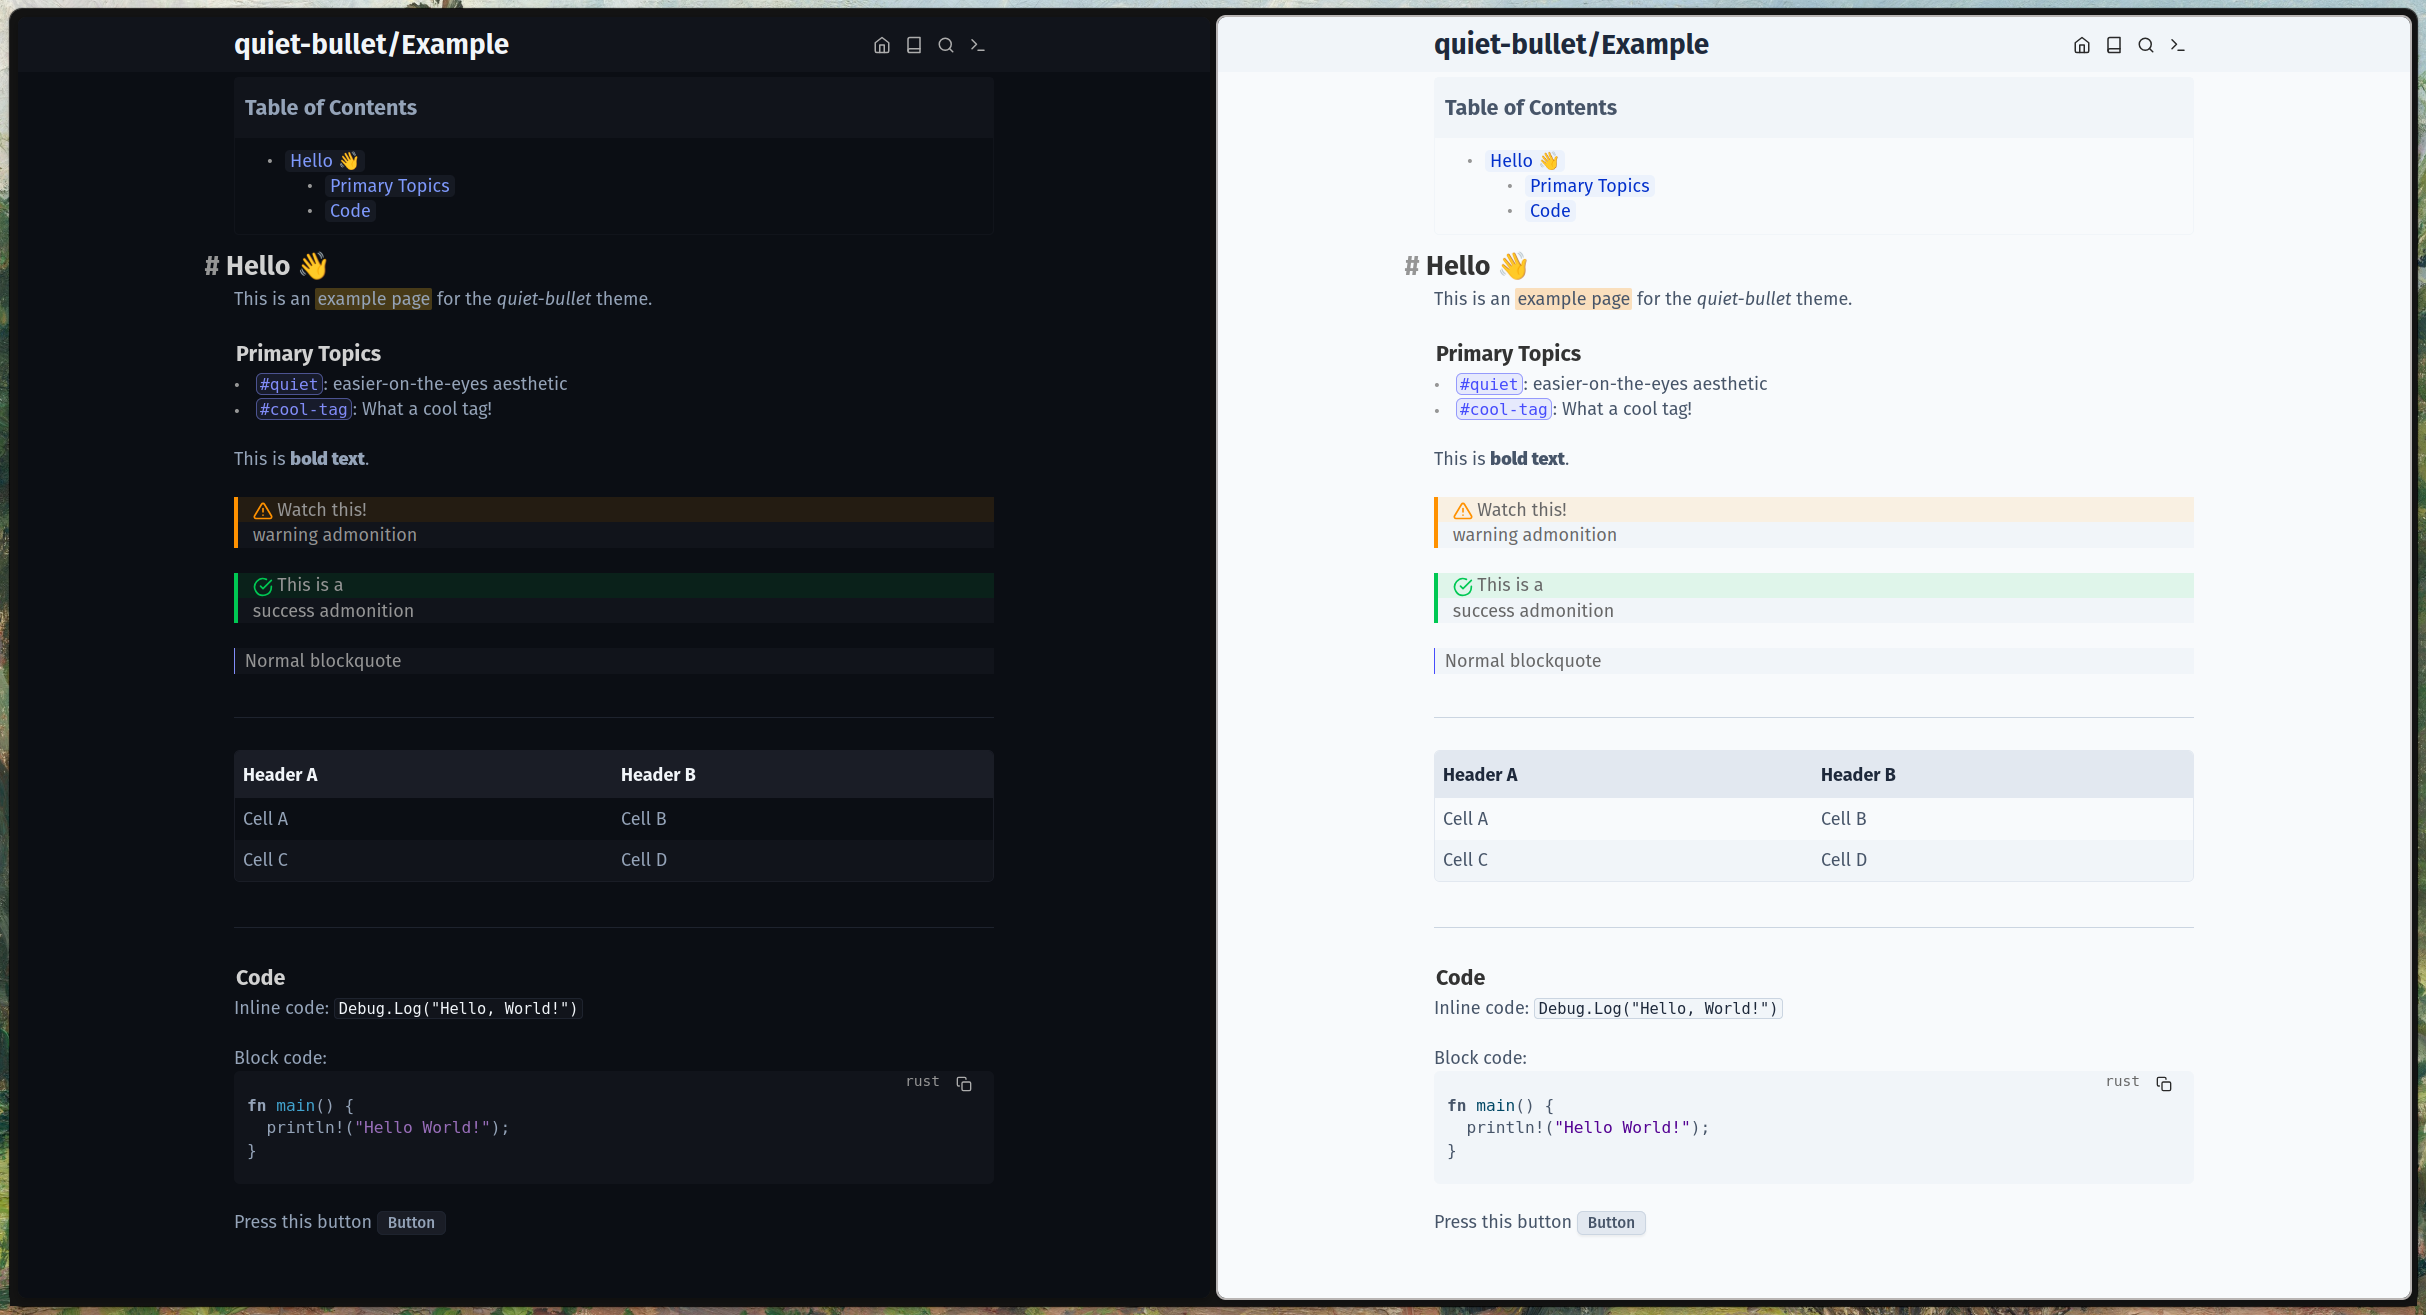
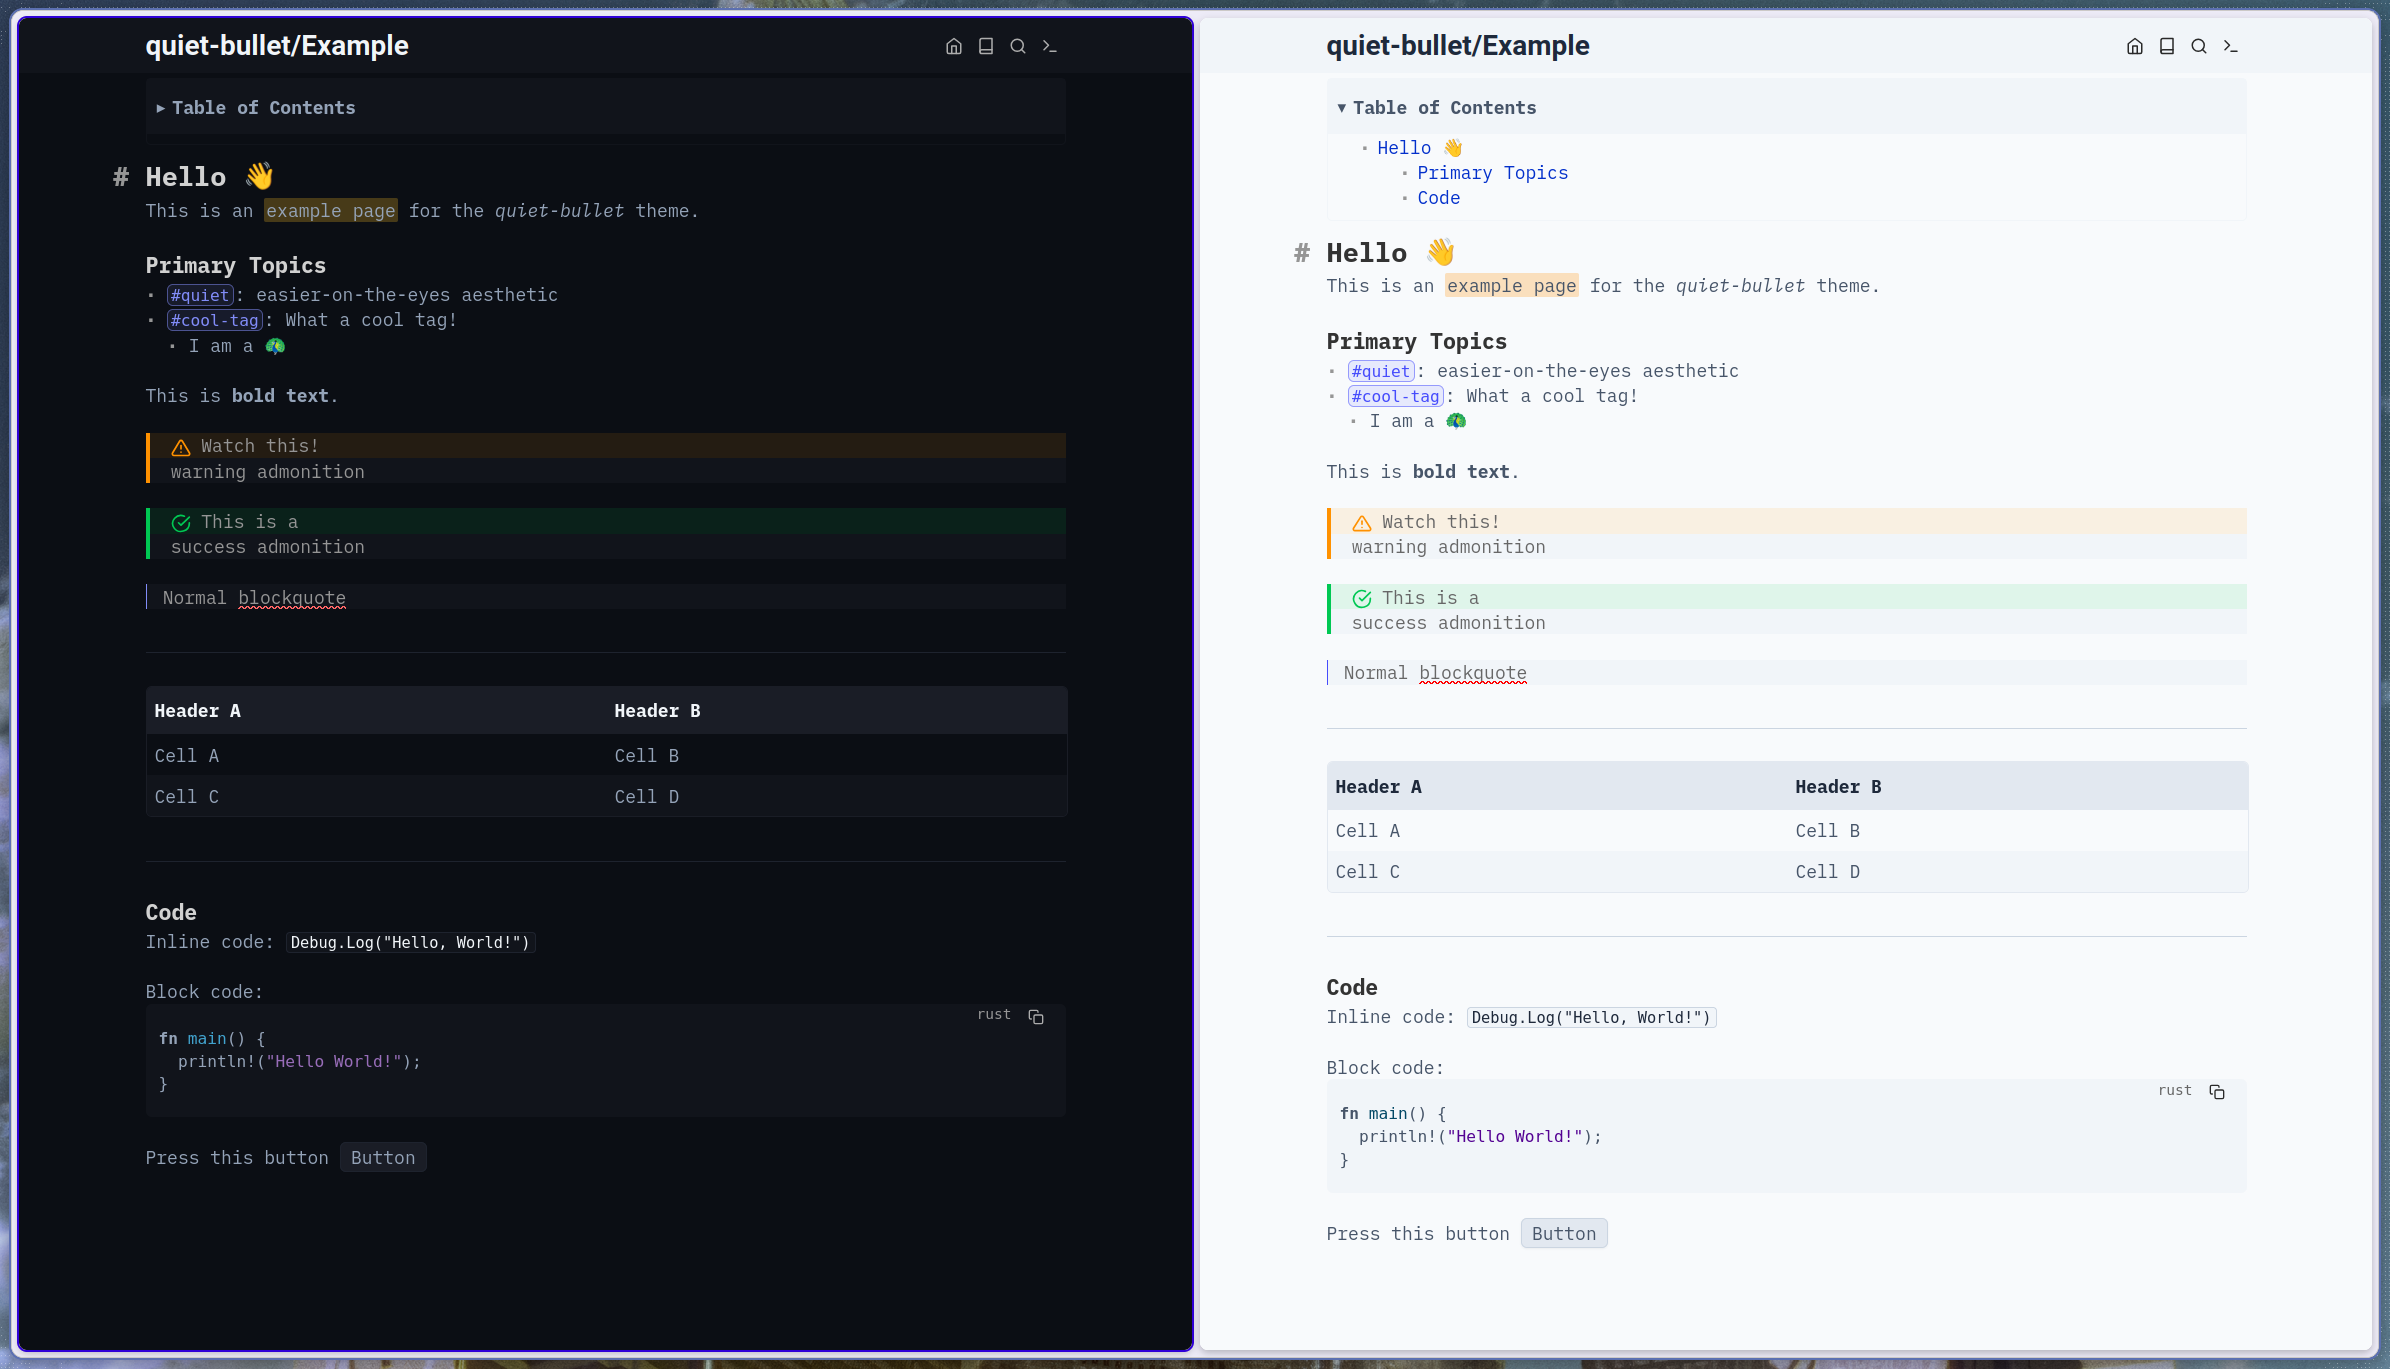
update css for SilverBullet 2.9.0 and fix selection

diff --git a/Editor.md b/Editor.md
@@ -46,6 +46,7 @@ div.sb-line-fenced-code {
   padding: 0 0.8em !important;
 }
 
+
 /* Rounded borders */
 /* First line with button */
 .sb-line-fenced-code:has(.sb-actions) {
@@ -72,34 +73,7 @@ div.sb-line-fenced-code {
 
 ---
 
-# Lists
-```space-style
-/* priority: 700 */
-  .sb-list-item-bullet,
-  .cm-list-indent {
-    font-family: var(--code-font) !important;
-    display: inline-block;
-    min-width: 1.5ch;
-    text-align: right;
-    margin-right: 0.5ch;
-  }
-
-  .sb-li-cursor {
-    padding-right: 1ch; /* TODO: Spacing is still broken */
-  }
-
-  .cm-list-bullet {
-    padding-right: 1ch;
-  }
-
-   .sb-task-checkbox {
-    margin-right: 0.6ch;
-  }
-```
-
----
-
-# Blockquote
+# Block-quote
 ```space-style
 /* priority: 700 */
 #sb-main .cm-editor .sb-blockquote-outside {
@@ -128,5 +102,13 @@ div.sb-line-fenced-code {
   border-width: 1px;
   border-style: solid;
   border-color: var(--surface-raised);
+}
+```
+
+# Headings
+```space-style
+/* priority: 700 */
+.sb-h3 {
+  font-size: 0.9em;
 }
 ```

diff --git a/Base.md b/Base.md
@@ -8,18 +8,21 @@ body {
   text-rendering: optimizeLegibility;
   font-variant-ligatures: discretionary-ligatures;
 
-  /* Fix List Indentation for Proportional Fonts */
-  .cm-content {
-    font-family: var(--editor-font);
-    font-variant-numeric: tabular-nums;
-  }
-
   background-color: var(--surface-lower) !important;
 }
 
-/* Selection highlight */
-::selection {
-  background: var(--accent-primary-50);
-  color: var(--text-primary);
+/* Selection */
+.cm-selectionLayer {
+  z-index: 10 !important;
+  pointer-events: none !important;
+}
+
+.cm-selectionLayer .cm-selectionBackground {
+  background: var(--accent-primary-50) !important;
+  opacity: 0.2 !important;
+}
+
+.cm-content ::selection {
+  background: transparent !important;
 }
 ```

diff --git a/Configuration.md b/Configuration.md
@@ -3,9 +3,13 @@ Main font stacks and layout variables.
 ```space-style
 /* priority: 1000 */
 :root, html, body {
-  /* Main Fonts */
-  --editor-font: system-ui, -apple-system, BlinkMacSystemFont, "Segoe UI", Roboto, Helvetica, sans-serif;
+  /* Fonts */
+  /* NOTE: Using a proportional font can break list and other layout styling.*/
+  /* For a proportional editor font, uncomment below. */
+  /*--editor-font: system-ui, -apple-system, BlinkMacSystemFont, "Segoe UI", Roboto, Helvetica, sans-serif;*/
   --code-font: "IBM Plex Mono", "SF Mono", Menlo, Monaco, Consolas, monospace;
+  
+  --editor-width: 60rem !important;
 
   /* Border Radii */
   --radius-xs: 2px;

diff --git a/Interface.md b/Interface.md
@@ -11,10 +11,9 @@ SilverBullet UI (Top bar, Buttons, Notifications, etc.).
 ## Title (Top Bar)
 ```space-style
 /* priority: 600 */
-
 #sb-top 
 {
-  .cm-content {
+  .sb-input {
     font-size: 1em;
     font-weight: bold;
   }

diff --git a/README.md b/README.md
@@ -1,5 +1,5 @@
 # quiet-bullet 🤫
-A minimal, easier-on-the-eyes theme for [SilverBullet](https://silverbullet.md/) (V2).
+A minimal, easier-on-the-eyes theme for [SilverBullet](https://silverbullet.md/) (V2 - 2.9.0).
 
 ![Preview Image](preview.png)
 